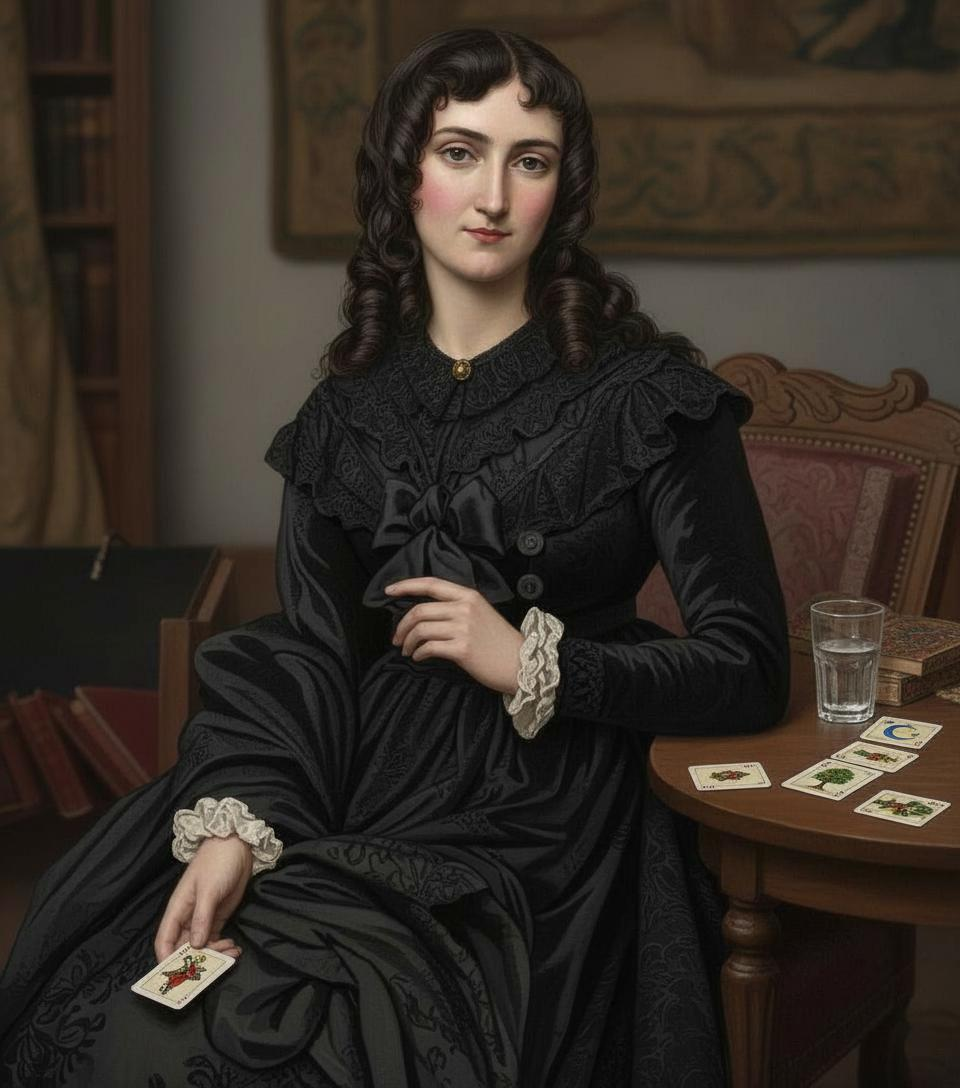
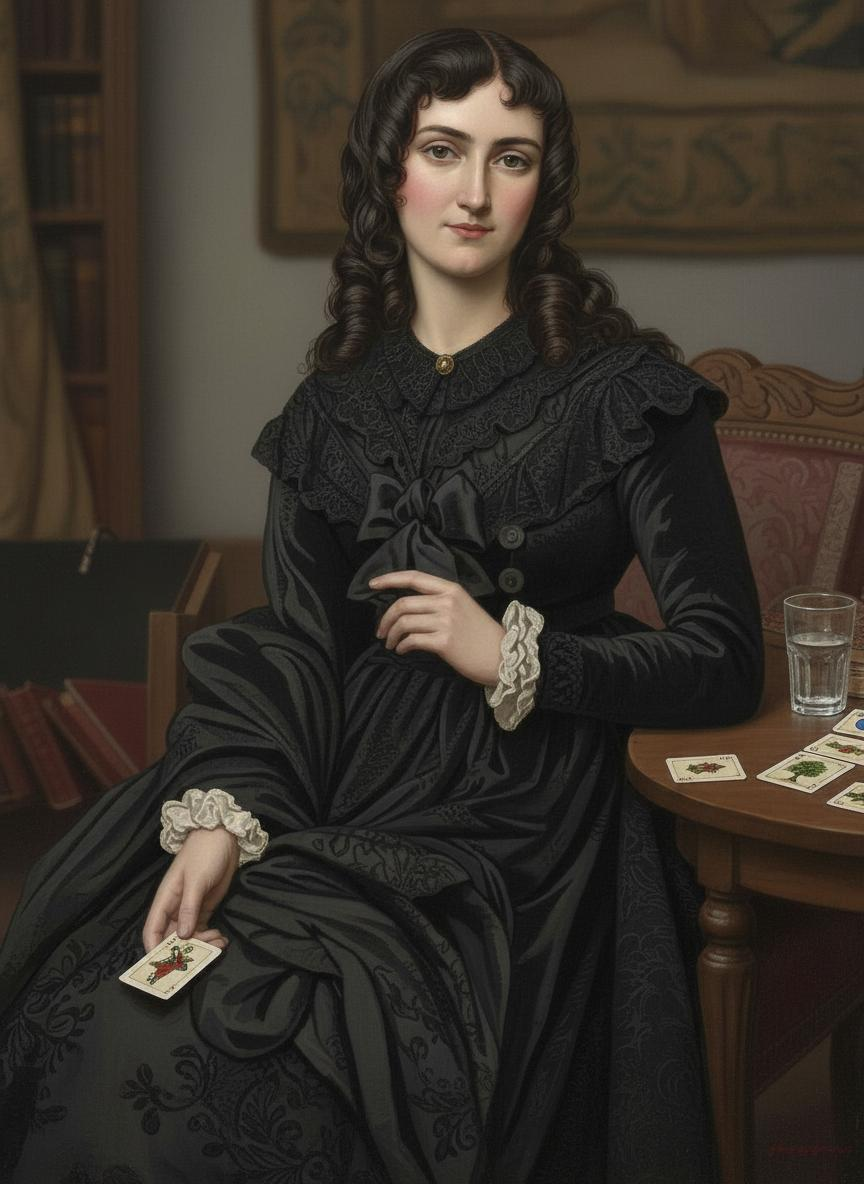
feat(hero): replace hero image with new version and update cache-busting parameters

diff --git a/app/page.tsx b/app/page.tsx
@@ -48,7 +48,7 @@ export default function Home() {
             <div className="relative z-10 flex justify-center lg:flex-1 lg:justify-end">
               <div className="hero-image-cell rounded-none bg-transparent p-0">
                   <Image
-                    src="/images/hero-image.jpg?v=3"
+                    src="/images/hero-image.jpg?v=4"
                     alt="Mystical Lenormand cards arranged in a reading spread"
                     width={800}
                     height={600}

diff --git a/app/layout.tsx b/app/layout.tsx
@@ -62,7 +62,7 @@ export const metadata: Metadata = {
         type: 'image/png',
       },
        {
-         url: 'https://lenormand-intelligence.com/images/hero-image.jpg?v=2',
+         url: 'https://lenormand-intelligence.com/images/hero-image.jpg?v=3',
          width: 1200,
          height: 800,
          alt: 'Lenormand Intelligence - AI-Powered Card Readings',
